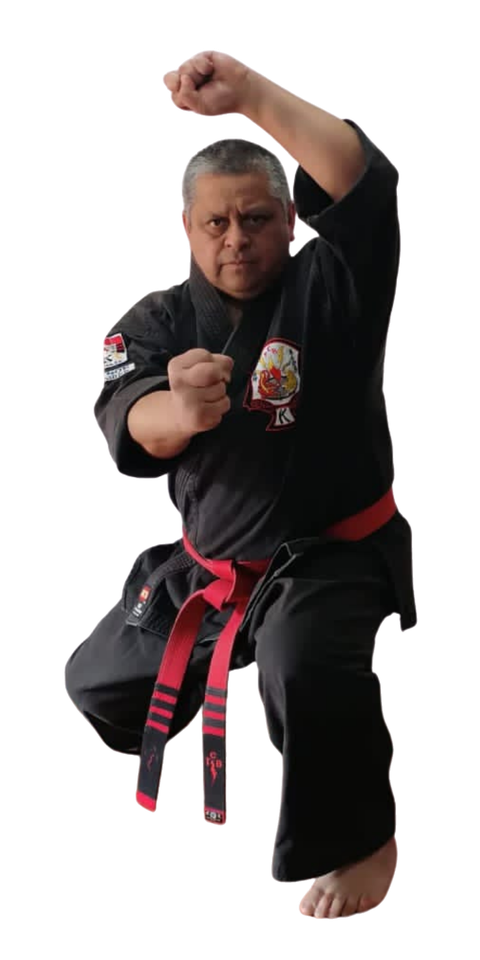
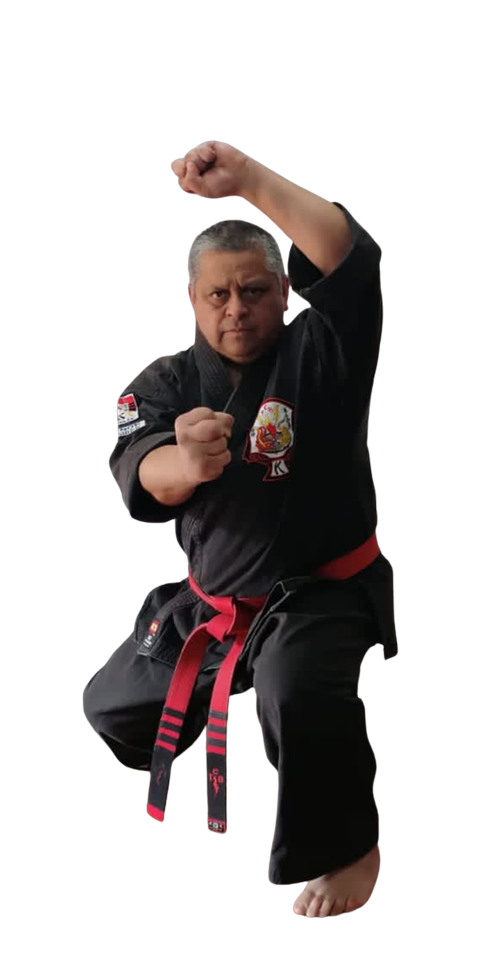
Update hero stats, Ed Parker quote, and fix Vidal photo body scale
- Stats bar: Años de Tradición 40+, nueva stat Degree Black Belts 30+
- Cita en inglés de Ed Parker con puntuación corregida
- img/vidal/04.png: reduce el cuerpo a la misma escala que el resto de fotos del rotador

Changed region(s): [[0.125, 0.0312, 0.875, 0.9688]]

diff --git a/index.html b/index.html
@@ -3713,7 +3713,7 @@ footer {
       <span class="stat-label">Grado Black Belt</span>
     </div>
     <div class="stat-item reveal reveal-delay-1">
-      <span class="stat-num" data-count-to="20" data-count-prefix="+">+0</span>
+      <span class="stat-num" data-count-to="40" data-count-suffix="+">0+</span>
       <span class="stat-label">Años de Tradición</span>
     </div>
     <div class="stat-item reveal reveal-delay-2">
@@ -3721,8 +3721,8 @@ footer {
       <span class="stat-label">Escuelas en Chile</span>
     </div>
     <div class="stat-item reveal reveal-delay-3">
-      <span class="stat-num">∞</span>
-      <span class="stat-label">Vías del Kenpo</span>
+      <span class="stat-num" data-count-to="30" data-count-suffix="+">0+</span>
+      <span class="stat-label">Degree Black Belts</span>
     </div>
   </div>
 </div>
@@ -3763,7 +3763,7 @@ footer {
       <div class="institucional-quote-block">
         <span class="institucional-quote-mark" aria-hidden="true">❝</span>
         <p class="institucional-quote-text">«Vengo hacia ti con las manos vacías, no tengo armas, pero si soy obligado a defenderme, a defender mis principios o mi honor, si es cuestión de vida o muerte, de derecho o de injusticia, entonces aquí están mis armas, el karate, las manos vacías»</p>
-        <p class="institucional-quote-text-en">«I come to you with only Karate, empty hands. I have no weapons, but should I be forced to defend myself, my principles or my honor, should it be a matter of life or death, right or wrong, then here are my weapons, Karate empty hands»</p>
+        <p class="institucional-quote-text-en">«I come to you with only 'Karate' - empty hands. I have no weapons. But should I be forced to defend myself, my principles or my honor; should it be a matter of life or death, of right or wrong; then here are my weapons - 'Karate' - my empty hands.»</p>
         <div class="institucional-quote-author">
           <span class="institucional-quote-author-name">Senior Grandmaster Edmund Kealoha Parker</span>
           <span class="institucional-quote-author-title">Fundador del American Kenpo Karate</span>